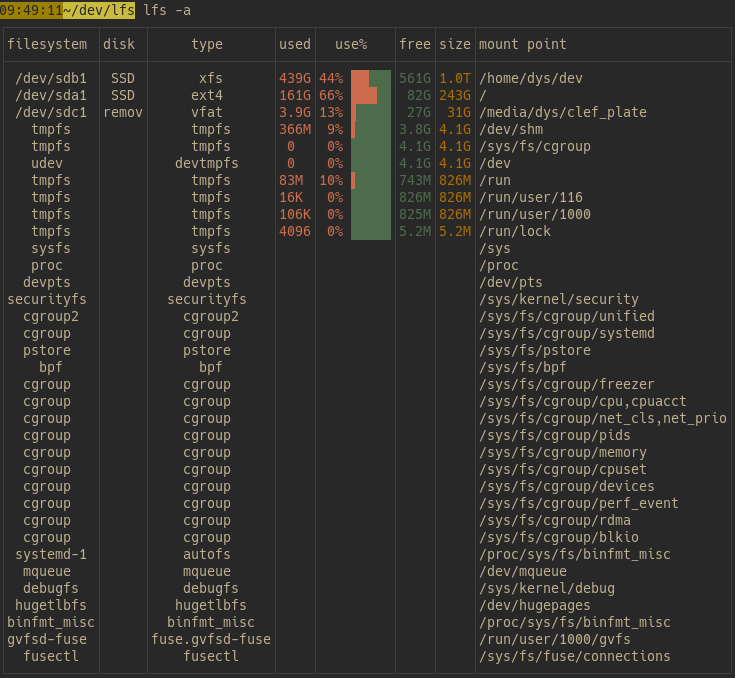
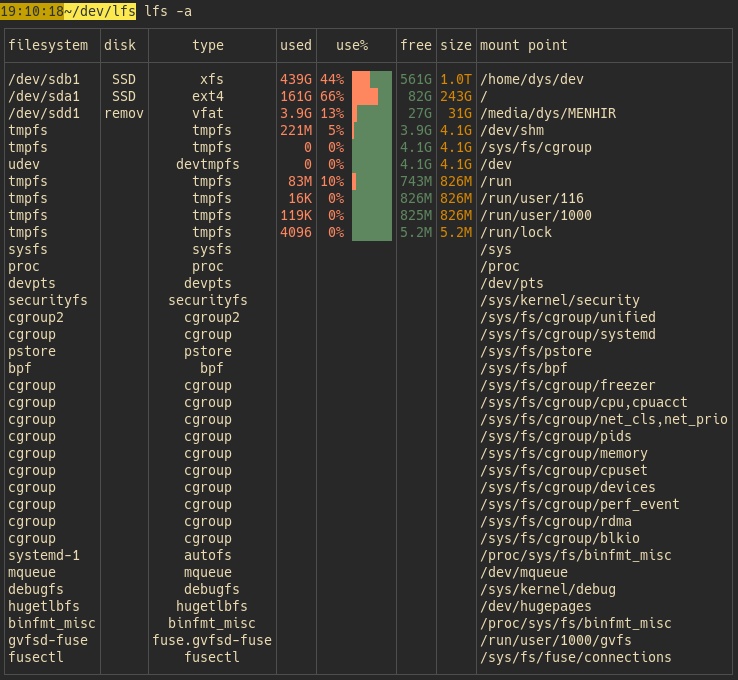
align the filesystem column to the left

Changed region(s): [[0.0, 0.0, 1.0, 1.0]]

diff --git a/src/col.rs b/src/col.rs
@@ -86,7 +86,7 @@ impl Col {
         match self {
             Self::Id => Alignment::Right,
             Self::Dev => Alignment::Center,
-            Self::Filesystem => Alignment::Center,
+            Self::Filesystem => Alignment::Left,
             Self::Label => Alignment::Left,
             Self::Disk => Alignment::Center,
             Self::Type => Alignment::Center,

diff --git a/CHANGELOG.md b/CHANGELOG.md
@@ -1,5 +1,10 @@
+
+<a name="v2.0.1"></a>
+### v2.0.1 - 2022/02/20
+- align filesystem column to the left
+
 <a name="v2.0.0"></a>
-### v2.0.0 - 2022/01/06
+### v2.0.0 - 2022/02/20
 - It's now possible to set the columns with the `--cols` launch argument
 - default column set has changed
 - `--inodes` and `--label` have been removed (to see for example lables, use `lfs -c +label`)
